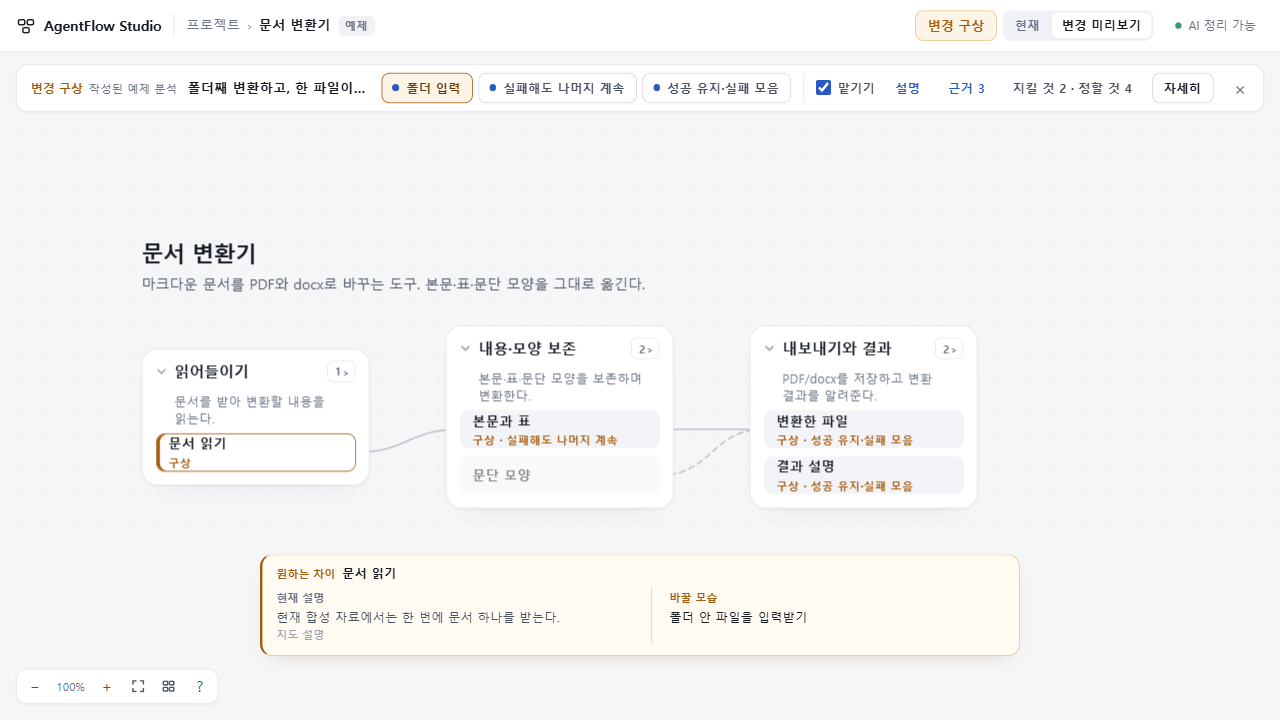
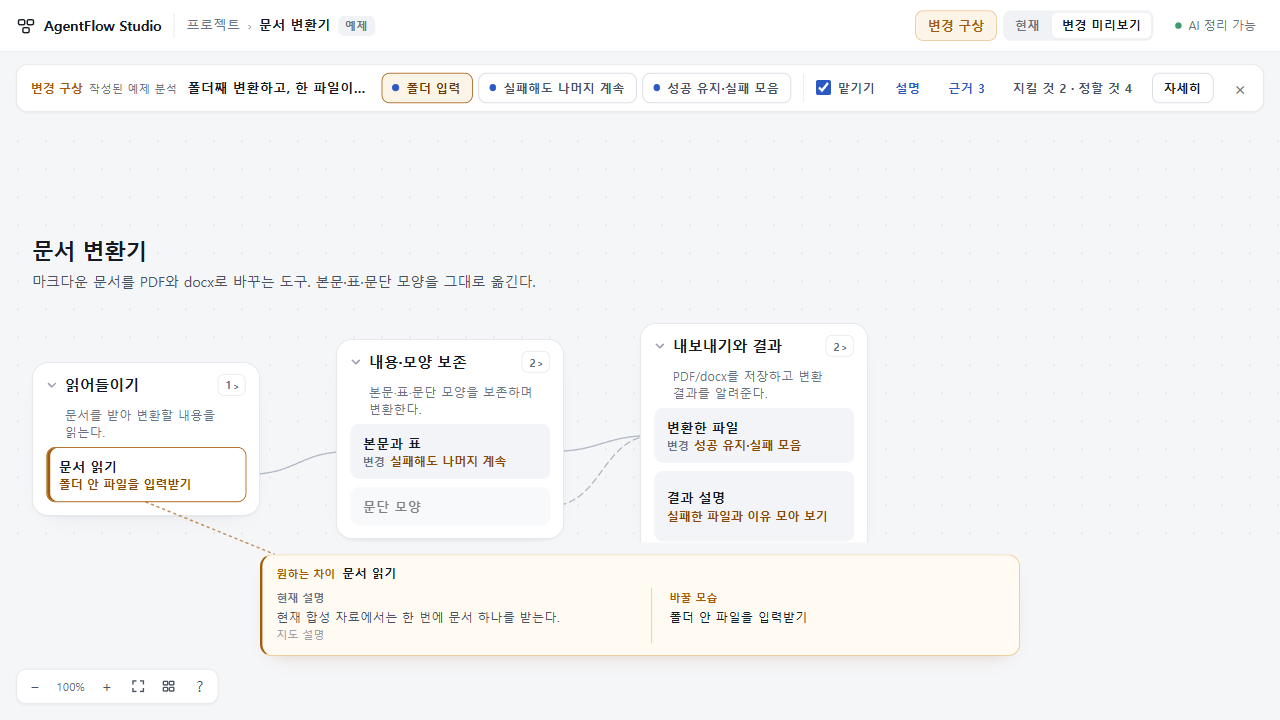
Record UI61 acceptance, exact CI and deployed comparison scenes

diff --git a/docs/cycles/2026-10-26-visual-experience-59/RESULT.md b/docs/cycles/2026-10-26-visual-experience-59/RESULT.md
@@ -1,56 +1,59 @@
-# UI·UX59 · 부분의 현재 모습과 바꾸려는 모습
+# UI·UX59–61 · 같은 자리에서 현재와 바꿀 모습 이해하기
 
-## 현재 배포 · 대상 노출 후속60 (2026-10-27)
+## 현재 수용본 · 후속61 (2026-10-27)
 
-현재 runtime은 `93cb8d355c9204a469fa9b38127ff68f0e3d5d1a`다. 접힌 부모만 강조하고 자식 설명을 따로 읽던 문제를 고쳐, 명시적 비교 진입·대상 전환 때 실제 대상 경로만 임시로 펼친다. 무화살표 주황 점선은 그 대상과 비교 설명의 대응이며 프로그램 관계가 아니다. 사용자가 직접 접은 상태, 기록 참고용 펼침, 비교용 임시 펼침을 구별한다.
+변경 대상 카드에서 원하는 차이가 직접 읽히고, 현재와 미리보기가 같은 배치·카메라를 공유한다. 영향 후보가 왜 연결되는지 기존 관계가 프레임 위에서 보이며, 새 관계나 필수 변경처럼 표시하지 않는다. 설명이 길어져도 선택 대상이 가려지지 않도록 명시적 설명 열기에서만 최소 이동한다. 입력 수집·출력 기능은 확장하지 않았다.
 
-[PR32](https://github.com/tlsee0813-cmd/agentflow-studio/pull/32) merge `7a084dc302b5fa8d4959d74e2519a51e423e4b1d`와 source app tree `c310275728787bcb843cccc580fec13680f0fd09`가 같다. [CI40347988164](https://github.com/tlsee0813-cmd/agentflow-studio/actions/runs/40347988164) Ubuntu121659971484·Windows121659972000 모두 성공했다. 이후 Workers·Pages `55807604897af392518fbed422af2bc213a3459e`를 게시하고 양쪽 공개 BUILD와 Workers 실제 화면을 확인했다. 서버 코드는 이전과 같아 실제 AI 호출을 다시 반복하지 않았다.
+- runtime source: `8a8cf48548a5ddcbe0a682ac8bd12ec8b3063529`
+- [PR33](https://github.com/tlsee0813-cmd/agentflow-studio/pull/33) merge: `09676c6d5b9ae1a16e090ae2d63e9f66bb3ce3a1`
+- source/merge app tree 동일: `e4797a1679cd2c5055ebcfc90eda4f8e183e8949`
+- [최종 CI40361287548](https://github.com/tlsee0813-cmd/agentflow-studio/actions/runs/40361287548): Ubuntu121707117649·Windows121707118576 모두 성공. Linux 패키지 다운로드 지연 뒤 실제 브라우저 검사까지 완료했다.
+- [주 체험본](https://agentflow-studio.tlsee0813.workers.dev/#/p/ex-converter)과 [보조 Pages](https://tlsee0813-cmd.github.io/agentflow-studio/)의 공개 BUILD가 source와 일치한다. Pages `d5f7121e2bc1f1d2fd40a8f287e01d1ab7ce7557`, 기존 design/ 보존.
 
-Cloud request4는 정확 번들의 해시/BUILD를 대조하고 Node-RED 1280/1440의 실제 대상·비교 가독성, network/core 수동 접기 후 근거/resize, 80/30 수동 이동, 현재/닫기의 사용자 접힘 복원을 수용했다. Joplin 세 대상의 선택 카드와 설명 면 비겹침·근거 왕복도 확인했다. 실제 PNG 열람 후 브라우저/서버 종료0; 원격 Git·API·전체 검사는 미실행이다. 총괄 직접 조작과 Astra PNG 판단도 개선을 수용했다. 100% 배율을 유지하므로 넓어진 주변 구조 일부는 화면 밖에 남을 수 있다.
+## 반려에서 선택한 수정
 
-독립 Claude의 **a4 전체 시각 후속은 개선을 인정했지만 구매 판단을 반려**했다. 지도 표지를 이미 있는 바꿀 내용으로 바꾸기, 역할 설명을 같은 측면의 현재 상태처럼 비교하지 않기를 후속 범위로 선택했다. 모든 대상을 강제로 축소해 한 화면에 넣는 제안은 그대로 채택하지 않았다. 아직 제품 품질 목표는 진행 중이며, 아래 a4 기록은 당시 실행 범위다.
+1. **지도에서 원하는 변화 읽기.** '변경 대상' 표지만 붙이던 행에 기존 wanted 문구를 표시한다. 실제 표시되는 행에만 높이를 배정하고, 접힌 부모에는 안쪽의 어느 대상을 바꾸는지 표시한다.
+2. **같은 측면끼리 비교.** 부분의 일반 역할을 변경 전 상태로 꾸미지 않는다. 비교 설명이 없으면 바꿀 내용과 역할 맥락을 분리한다. 변환기 예제의 맞지 않는 비교 쌍 두 개를 제거했다.
+3. **같은 자리에서 비교.** 변경안이 열린 동안 현재/미리보기는 임시 대상 경로와 행 크기를 공유한다. 모드 전환이 지도를 다시 배치하지 않는다. 변경안을 닫으면 일반 지도 크기와 사용자 접힘으로 돌아간다.
+4. **기존 연결 읽기.** Node-RED의 MQTT·HTTP·WebSocket→TLS 기존 관계를 프레임 위에 그린다. 현재에도 남는 회색 점선이며, 영향 후보 표시는 별도로 구별한다.
+5. **긴 설명이 대상을 가리지 않기.** Cloud가 발견한 변환기 '실패해도 나머지 계속→설명' 가림을 총괄이 재현했다. 설명을 직접 열 때 필요한 만큼만 이동하고, 근거 왕복에서는 카메라를 유지하며 가능한 읽기 높이 안에서 패널을 줄여 스크롤한다.
 
-지도에서 부분을 선택하고, 같은 대상의 현재 설명과 바라는 모습을 가까이에서 읽도록 바꿨다. 홈에는 실제 구성을 드러내고, 지도에는 책임별 제목과 조밀한 부분 목록을 둔다. 내부 진입과 펼치기를 구별하며, 긴 기록은 필요할 때 연다. 입력 수집·출력 기능은 확장하지 않았다.
+전체 대상을 강제로 축소해 한 화면에 넣는 제안은 채택하지 않았다. 기존 데이터와 실제 관계를 사용하며, 자료에 없는 새 구조를 생성하지 않았다.
 
-## 이번 선택
+## 판단과 실행의 구별
 
-작성자와 분리한 Claude의 초기 시각 검토는 구매 매력을 반려했다. 꼬리표와 긴 문단만 늘고 읽기 면이 지도를 가린다는 지적을 채택했다. 여러 비교 카드를 동시에 놓은 후속 후보도 빈 공간과 숨겨진 설명 때문에 반려했다.
-
-총괄과 Astra는 **실제 대상 이름으로 전체 범위를 알리고, 한 대상의 현재/의도를 비교하는 방식**을 선택했다. 공간이 충분하면 대상 곁에서, 부족하면 지도 공간을 확보한 비교 면에서 읽는다. 자료에 없는 구조나 관계를 만들어내는 제안은 채택하지 않았다. 선택 대상과 배율을 유지하고, 근거 왕복이나 수동 이동 뒤 복귀를 보정했다.
-
-선택적 `presentation`은 실제 대상·인용·근거 참조를 검사한다. 없는 자료는 기존 설명으로 표시하며 새 구조를 실행하지 않는다. 인용의 형식 검증이 의미와 사실의 정확성을 보증하지는 않는다.
-
-**이번 수정 배포는 전체 제품 완성이나 구매 가치 수용이 아니다.** Claude 후속 판단과 다음 수정 범위는 위 현재 배포 단락을 따른다.
-
-## 검증과 배포
-
-| 구분 | 확인한 범위 |
+| 구분 | 확인한 범위와 한계 |
 |---|---|
-| 총괄 Windows | 실제 1280/1440 화면에서 가림 반례를 재현·수정 확인. 공개 Workers 1280 변경 비교 표시 확인 |
-| Cloud request3 | 정확 a4 번들 SHA256/BUILD 확인. Joplin 설명→editor/renderer 선택의 가림 해소, 배율·배치 유지, 근거 첫 열기/닫기와 수동 이동 후 복귀를 1280/1440 실제 실행·PNG 열람으로 수용 |
-| Astra | b4의 단일 대상 비교와 공간 분리 표현을 실제 PNG로 좁게 수용. 최종 a4 전체 실행과 구별 |
-| 실제 모델 | c61 데이터 계약의 변환기·Node-RED 2건 응답 검증. 배포 후 a4 Workers의 Node-RED 합성 요구도 DeepSeek Flash HTTP200, 항목1·비교설명1, 응답 계약 검증 성공 |
-| 최종 CI | [40342207738](https://github.com/tlsee0813-cmd/agentflow-studio/actions/runs/40342207738) Windows121639620351·Ubuntu121639620779 모두 성공. 제공자 모의 검사는 실제 AI와 구별 |
+| 독립 Claude 시각 심사 | ca3362a의 1280/1440에서 기존 반려였던 관계 가림·전후 위치 이동·빈 행 높이가 해소됐다고 수용했다. 변환기에 이어 Node-RED 실제 응답 장면도 다시 쓰고 싶은 경험이라고 판단했다. 최종8a 전체 실행이나 사용자의 구매 평가를 대신하지 않는다. |
+| Cloud request5 | ca3362a 번들 해시/BUILD를 대조하고 두 크기에서 Node-RED 전후 배치·관계·수동 접힘·근거/이동·닫기 복원을 수용했다. 변환기 긴 설명 가림 때문에 전체 후보는 반려했다. |
[1 lines of base64/hex data omitted]
+| 총괄 Windows | 수정 전 가림 직접 재현, 최종8a의 두 크기 설명/대상 가독성·근거 왕복 확인. 공개 Workers에서 Node-RED 기존 관계·wanted·전후 카메라 동일 및 변환기 설명 가림 해소를 다시 확인했다. |
+| 작성자 | Node Playwright의 좁은 흐름과 화면 열람을 보고했다. Python suite 미실행은 별도로 남겼으며, 최종 Python 실행은 위 양OS CI가 담당했다. |
+| 실제 AI | 앞선a4 Workers에서 Node-RED 합성 요구를 실제 DeepSeek Flash에 보내 HTTP200·응답 계약 성공을 확인했다. 이번 UI 수정에서는 서버/모델 계약을 바꾸지 않아 paid 호출을 반복하지 않았다. |
 
-Cloud 최종 요청은 발견한 반례와 왕복만 재검증했다. 다른 자료·API·전체 검사 묶음의 최종 SHA 재실행으로 확대하지 않는다. Cloud PNG는 실행자가 열람했으며 총괄이 원본을 회수했다는 뜻이 아니다.
+초기 ca CI의 닫기 복원 실패는 가져오기 완료 전 빈 지도를 기준값으로 읽던 검사 레이스였다. 그려진 지도와 닫은 뒤 지도가 같음을 재현한 뒤, 정확한 프로젝트·그룹·행이 준비되는 조건을 기다리도록 고쳤다. 검사를 지우거나 허용 오차를 늘리지 않았다.
 
-- runtime source: `a4eb802ad4b33aca1f00873894db3295a613c803`
-- [PR31](https://github.com/tlsee0813-cmd/agentflow-studio/pull/31) merge: `dcb09bf3a351940d2c9cc0c365388ffbd573e9b3`
-- source/merge app tree 동일: `3b96481dd661c667ff292e2dd2b85e93133fdedf`
-- [주 체험본](https://agentflow-studio.tlsee0813.workers.dev/) 배포·공개 BUILD 확인. 보조 Pages `52a6daf2788d48af7fc93eb238ee256fa0a7a8b9` 게시, 기존 design/ 보존.
+Cloud PNG는 실행자가 열람했다. 총괄이 그 원본을 회수했다는 뜻은 아니다. 아래 두 PNG는 총괄이 최종 공개 Workers에서 별도로 촬영했다. 제품 수정 없이 독립 검토 서버·브라우저를 종료했고, 총괄 로컬 검토 서버와 완료 탭도 정리했다.
+
+## 남는 대가와 범위
+
+- 대상 내부를 펼칠 때 주변 일부는 화면 밖으로 나갈 수 있다. 현재/미리보기 사이에서는 배치가 유지되고 수동 이동·실명 대상 탐색으로 이어간다.
+- 현재 모드에 비교용 행 높이를 유지하므로 빈 공간이 일부 남는다.
+- 1280의 긴 설명·근거는 본문 스크롤을 쓴다. 모든 내용을 카드와 첫 화면에 펼치지 않는다.
+- 이번 수용은 UI 비교 경험의 독립 판단과 실행 결과다. 가격 가치 보증이나 설계 전체 구현 완료, 자동 이해의 일반 정확성 검증은 아니다.
 
 ## 작은 재현 자료
 
-기존 [OSS 출처와 선택 범위](../2026-10-26-visual-experience-58/OSS_CASES.md), [고정 자료](../2026-10-26-visual-experience-58/OSS_CASES.json)를 재사용한다. 저장소 루트에서 생성한 프로젝트 JSON을 홈의 백업 가져오기로 연다.
+기존 [OSS 출처와 선택 범위](../2026-10-26-visual-experience-58/OSS_CASES.md), [고정 자료](../2026-10-26-visual-experience-58/OSS_CASES.json)를 재사용한다. 저장소 루트에서 프로젝트 JSON을 생성하고 홈의 백업 가져오기로 연다.
 
 ```sh
 node app/continuity/scripts/build.mjs
 node app/continuity/tests/visual58-fixtures.mjs --out <새 임시 폴더의 절대 경로>
 ```
 
-- `oss-node-red.json` + [실제 모델 변경안](node-red-real-plan.json): 고정 소스 선택 발췌에 합성 요구를 입력한 실제 응답이다. 해당 프로젝트의 변경 구상→자세히에서 변경안 파일을 가져온다.
-- `oss-joplin.json` + [수작업 배치 검토안](joplin-layout-plan.json): 데스크톱·편집기·렌더러 3대상 전환의 가림 검토 전용. 실제 Joplin 변경 영향 분석이나 AI 생성 결과가 아니다.
-- [공개 변환기 1280 화면](converter-1280.png): 예제의 작성된 분석, 실제 AI 생성 장면과 구별한다.
-- [공개 Node-RED 1280 화면](node-red-1280.png): 후속60의 실제 모델 변경안을 정상 가져오기로 표시했다. 실제 내부 대상을 드러내고 자료상/바꿀 모습을 구별한다. 변환기 PNG는 a4에서 촬영한 이전 그림이다.
+- `oss-node-red.json` + [실제 모델 변경안](node-red-real-plan.json): 고정 소스 선택 발췌에 합성 요구를 입력한 실제 응답. 해당 프로젝트의 변경 구상→자세히에서 변경안 파일을 가져온다.
+- `oss-joplin.json` + [수작업 배치 검토안](joplin-layout-plan.json): 데스크톱·편집기·렌더러 3대상 전환의 가림 검토 전용. 실제 Joplin 영향 분석이나 AI 생성 결과가 아니다.
+- [공개 변환기 1280](converter-1280.png): 작성된 예제 분석. 실제 AI 생성과 구별한다.
+- [공개 Node-RED 1280](node-red-1280.png): 실제 응답을 정상 가져오기로 표시한 최종61. 회색 기존 관계와 주황 비교 대응을 구별한다.
 
-OSS 자체를 설치·실행하거나 전체 구조를 자동 이해한 결과가 아니다. 자동 지도 생성·실제 구조 변형은 구현하지 않았다. 비공개 키·운영 원문·전체 실행 로그는 이 폴더에 포함하지 않는다.
+OSS 자체 설치·실행이나 전체 구조 자동 이해의 성공으로 확대하지 않는다. 비공개 키·운영 원문·전체 실행 로그는 포함하지 않는다. 이전59/60의 판단·검증은 [PR31](https://github.com/tlsee0813-cmd/agentflow-studio/pull/31), [PR32](https://github.com/tlsee0813-cmd/agentflow-studio/pull/32)와 문서 Git 이력에 남기고, 현재 결과와 혼합하지 않는다.

diff --git a/docs/cycles/ACTIVE.md b/docs/cycles/ACTIVE.md
@@ -1,6 +1,6 @@
 # AgentFlow 현재 상태
 
-**시각 품질 재구성59/후속60 · 수정 배포, 품질 목표 진행 중:** [변경·판단·최소 재현 자료](2026-10-26-visual-experience-59/RESULT.md). 현재 runtime `93cb8d355c9204a469fa9b38127ff68f0e3d5d1a`는 부분 곁 비교·가림/복귀 보정에 실제 대상 경로의 임시 펼침을 결합했다. 양OS CI40347988164 성공, Cloud1280/1440 대상 노출·사용자 접힘/근거/수동 이동 보존 수용, PR32 merge와 app tree 동일 후 Workers·보조Pages 반영·공개 BUILD/화면 확인. 실제 API는 앞선a4에서 검증했으며 서버 코드가 같은60에서 반복하지 않았다. 독립Claude의a4전체평가는 개선 인정·구매 판단 반려다. 다음61은 지도에 기존 wanted 직접 표시와 비교 가능한 현재/역할 맥락 구별을 좁게 개선한다. 사용자58반려와 아래CI·배포 성공을 제품 만족으로 혼동하지 않는다. 입력/출력 확장 없음.
+**시각 품질 재구성59–61 · 독립 화면·실행 수용 후 배포:** [변경·판단·최소 재현 자료](2026-10-26-visual-experience-59/RESULT.md). 현재 runtime `8a8cf48548a5ddcbe0a682ac8bd12ec8b3063529`는 지도 대상의 wanted 직접 표시, 역할 맥락과 전후 비교의 구별, 같은 배치에서 현재/미리보기 전환, 기존 관계 가시성, 긴 설명의 대상 가림 보정을 결합했다. 독립 Claude가 ca3362a의 이전 시각 반려 해소를 수용했고, Cloud request5의 변환기 설명 가림은 최종8a에서 수정·request6 두 PC 크기 재검토로 수용했다. 정확 양OS CI40361287548 성공, PR33 merge09676c6/app tree 동일 후 Workers·보조Pages 반영·양쪽 공개 BUILD/Workers 화면 확인. 큰 내부 펼침의 주변 offscreen과 긴 설명 스크롤은 남는 대가다. 실제 API는 서버 계약이 같은 앞선a4 검증과 구별한다. 입력/출력 확장·자동 이해 일반 정확성·설계 전체 완료·사용자 구매 평가를 뜻하지 않는다.
 
 **시각 UI/UX58 · 2026-10-26:** [수용 결과·OSS 재현 자료·대표 화면](2026-10-26-visual-experience-58/RESULT.md). 사용자 최신 우선순위에 따라 입력·출력 확장보다 홈→지도→선택/내부→변경 비교→복귀를 정돈했다. 고정 Joplin/restic/Node-RED와 파생3자료의 1280·1440 실제 화면 검토에서 가림·관계선 오독·긴 이름 잘림을 수정했다. source `52e8c44c817e494cfd5c367f6a116b728ec293ee`의 양OS CI40312210728 성공, PR30 merge와 app tree 동일 확인 후 기존 Workers·보조Pages 반영 및 공개 BUILD 확인. Cloud의 d64f 두 반례 재검토 수용과 최종52e8 글꼴 보정의 총괄/CI 검증은 구별한다. 자동 지도 생성·OSS 자체 실행의 성공으로 확대하지 않는다. 다음도 사용자 지시 없이 입력 수집/출력 기능으로 넓히지 않으며, 실제 자료에서 이해를 방해하는 시각·탐색 문제를 우선한다.
 
